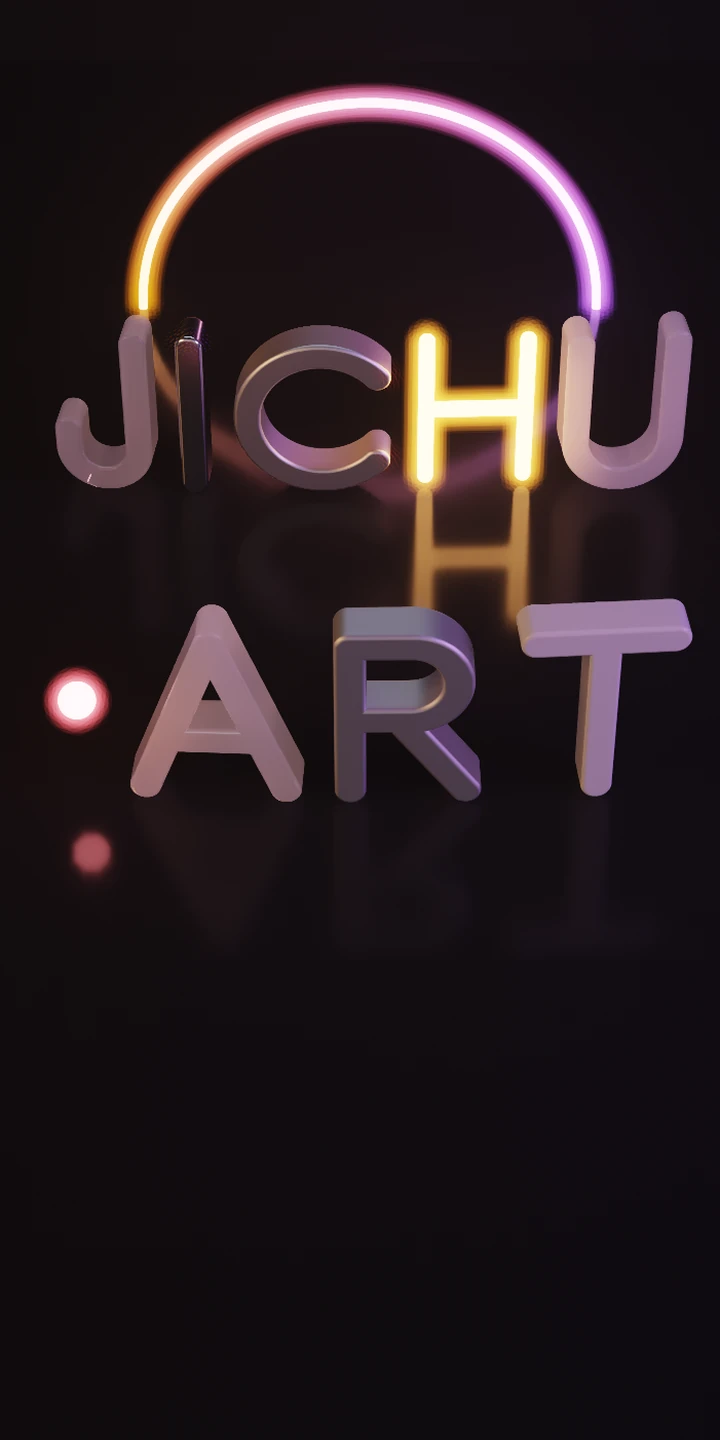
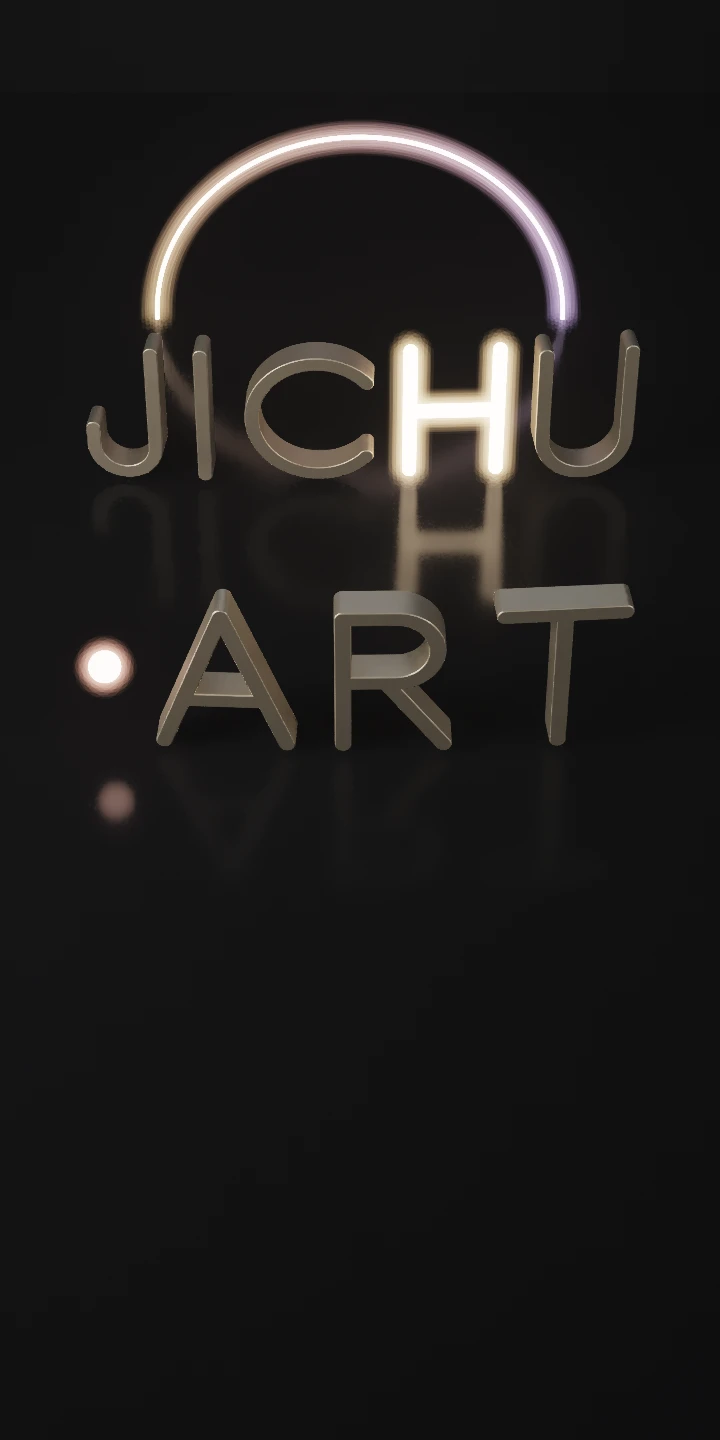
Home: fallback stills and share picture rendered with the champagne-metal scene
The wide and tall stills (shown with reduced motion, without WebGL2 or
on GPUs too slow for the live render) and the home share picture were
still the earlier gel-lit scene. They are re-rendered by the page's own
renderer (96 samples, denoised), the share crop keeps the top of the
arch, and their URLs carry STILL_V so the CDN's 30-day image cache
serves the new files at once. README notes how to render them again.

Claude-Session: https://claude.ai/code/session_015hzHTXBJz3FWnZSmHQoqzp

Changed region(s): [[0.0611, 0.0312, 0.9778, 0.5625], [0.0611, 0.4062, 0.4278, 0.625]]

diff --git a/index.html b/index.html
@@ -11,7 +11,7 @@
 <meta property="og:title" content="Jichu Mao – Graphics Performance Engineer | Jichu · Art">
 <meta property="og:description" content="Portfolio of Jichu Mao, graphics engineer: real-time rendering, GPU path tracing, shaders, graphics tools, games and animation.">
 <meta property="og:url" content="https://jichu.art/">
-<meta property="og:image" content="https://jichu.art/assets/img/home/og.jpg">
+<meta property="og:image" content="https://jichu.art/assets/img/home/og.jpg?v=e1">
 <meta property="og:image:width" content="1200">
 <meta property="og:image:height" content="630">
 <meta name="twitter:card" content="summary_large_image">
@@ -42,10 +42,10 @@
   <figure class="hero-media">
     <canvas class="hero-live" aria-hidden="true"></canvas>
     <picture class="hero-still" hidden>
-      <source media="(max-aspect-ratio: 1/1)" data-srcset="assets/img/home/studio-tall-720.webp 720w" sizes="100vw" width="720" height="1440">
-      <img data-srcset="assets/img/home/studio-1000.webp 1000w, assets/img/home/studio-1600.webp 1600w" sizes="100vw" width="1600" height="900" alt="The letters JICHU · ART in slim brushed champagne metal, standing on a wet black floor in front of a thin arch of light, which the floor reflects into a full ring. The H is neon tubes and the dot a glowing sphere; the arch glows in soft warm and cool tones, which in the live version slowly flow">
+      <source media="(max-aspect-ratio: 1/1)" data-srcset="assets/img/home/studio-tall-720.webp?v=e1 720w" sizes="100vw" width="720" height="1440">
+      <img data-srcset="assets/img/home/studio-1000.webp?v=e1 1000w, assets/img/home/studio-1600.webp?v=e1 1600w" sizes="100vw" width="1600" height="900" alt="The letters JICHU · ART in slim brushed champagne metal, standing on a wet black floor in front of a thin arch of light, which the floor reflects into a full ring. The H is neon tubes and the dot a glowing sphere; the arch glows in soft warm and cool tones, which in the live version slowly flow">
     </picture>
-    <noscript><img class="hero-still" src="assets/img/home/studio-1600.webp" width="1600" height="900" alt="The letters JICHU · ART in slim brushed champagne metal, standing on a wet black floor in front of a thin arch of light, which the floor reflects into a full ring. The H is neon tubes and the dot a glowing sphere; the arch glows in soft warm and cool tones, which in the live version slowly flow"></noscript>
+    <noscript><img class="hero-still" src="assets/img/home/studio-1600.webp?v=e1" width="1600" height="900" alt="The letters JICHU · ART in slim brushed champagne metal, standing on a wet black floor in front of a thin arch of light, which the floor reflects into a full ring. The H is neon tubes and the dot a glowing sphere; the arch glows in soft warm and cool tones, which in the live version slowly flow"></noscript>
     <figcaption><span class="cap-live">Path traced live in your browser<span class="cap-more">: brushed champagne metal, neon and haze, lit by an arch of light whose colours slowly flow. Each light is traced into its own buffer, so their colours flow without tracing again; denoised as it converges</span>. <span class="spp"></span><span class="hint"> Drag to turn it.</span></span><span class="cap-still">Path traced by this page’s own renderer<span class="cap-more">: brushed champagne metal, neon and haze, lit by an arch of light</span>.</span></figcaption>
   </figure>
   <div class="wrap hero-text">

diff --git a/about/index.html b/about/index.html
@@ -11,7 +11,7 @@
 <meta property="og:title" content="About – Jichu · Art">
 <meta property="og:description" content="About Jichu Mao, Graphics Performance Engineer at TikTok: background, work experience, education, skills and hobbies.">
 <meta property="og:url" content="https://jichu.art/about/">
-<meta property="og:image" content="https://jichu.art/assets/img/home/og.jpg">
+<meta property="og:image" content="https://jichu.art/assets/img/home/og.jpg?v=e1">
 <meta property="og:image:width" content="1200">
 <meta property="og:image:height" content="630">
 <meta name="twitter:card" content="summary_large_image">

diff --git a/resume/index.html b/resume/index.html
@@ -11,7 +11,7 @@
 <meta property="og:title" content="Jichu Mao – Résumé">
 <meta property="og:description" content="Résumé of Jichu Mao, graphics engineer: experience, selected projects, education and skills.">
 <meta property="og:url" content="https://jichu.art/resume/">
-<meta property="og:image" content="https://jichu.art/assets/img/home/og.jpg">
+<meta property="og:image" content="https://jichu.art/assets/img/home/og.jpg?v=e1">
 <meta property="og:image:width" content="1200">
 <meta property="og:image:height" content="630">
 <meta name="twitter:card" content="summary_large_image">

diff --git a/tools/build.py b/tools/build.py
@@ -10,6 +10,7 @@ MAN = json.load(open(sys.argv[2], encoding="utf-8"))
 SITE = "https://jichu.art"
 E = html.escape
 ASSET_V = "40"   # bump when site.css or the scripts change, so browsers do not reuse a cached copy
+STILL_V = "e1"    # bump when the home stills or the home share picture are re-rendered (they are cached for 30 days)
 
 # Visitor statistics (GoatCounter: no cookies, so no consent banner). Empty = off.
 # To switch on: create a free account at goatcounter.com, choose a code (the "mysite" of mysite.goatcounter.com),
@@ -976,10 +977,10 @@ def build_home():
   <figure class="hero-media">
     <canvas class="hero-live" aria-hidden="true"></canvas>
     <picture class="hero-still" hidden>
-      <source media="(max-aspect-ratio: 1/1)" data-srcset="assets/img/home/studio-tall-720.webp 720w" sizes="100vw" width="720" height="1440">
-      <img data-srcset="assets/img/home/studio-1000.webp 1000w, assets/img/home/studio-1600.webp 1600w" sizes="100vw" width="1600" height="900" alt="{E(HERO_ALT)}">
+      <source media="(max-aspect-ratio: 1/1)" data-srcset="assets/img/home/studio-tall-720.webp?v={STILL_V} 720w" sizes="100vw" width="720" height="1440">
+      <img data-srcset="assets/img/home/studio-1000.webp?v={STILL_V} 1000w, assets/img/home/studio-1600.webp?v={STILL_V} 1600w" sizes="100vw" width="1600" height="900" alt="{E(HERO_ALT)}">
     </picture>
-    <noscript><img class="hero-still" src="assets/img/home/studio-1600.webp" width="1600" height="900" alt="{E(HERO_ALT)}"></noscript>
+    <noscript><img class="hero-still" src="assets/img/home/studio-1600.webp?v={STILL_V}" width="1600" height="900" alt="{E(HERO_ALT)}"></noscript>
     <figcaption><span class="cap-live">Path traced live in your browser<span class="cap-more">: brushed champagne metal, neon and haze, lit by an arch of light whose colours slowly flow. Each light is traced into its own buffer, so their colours flow without tracing again; denoised as it converges</span>. <span class="spp"></span><span class="hint"> Drag to turn it.</span></span><span class="cap-still">Path traced by this page’s own renderer<span class="cap-more">: brushed champagne metal, neon and haze, lit by an arch of light</span>.</span></figcaption>
   </figure>
   <div class="wrap hero-text">
@@ -1018,7 +1019,7 @@ def build_home():
 </section>"""
     write("index.html", page(root=root, path="", title="Jichu Mao – Graphics Performance Engineer | Jichu · Art",
                              desc="Portfolio of Jichu Mao, graphics engineer: real-time rendering, GPU path tracing, shaders, graphics tools, games and animation.",
-                             body=body, og_image="assets/img/home/og.jpg", current="", scripts=("works.js", "previews.js", "studio.js", "home.js"), person=True, cls="home"))
+                             body=body, og_image=f"assets/img/home/og.jpg?v={STILL_V}", current="", scripts=("works.js", "previews.js", "studio.js", "home.js"), person=True, cls="home"))
 
 def build_projects():
     root = "../../"
@@ -1112,7 +1113,7 @@ def build_about():
 </div>"""
     write("about/index.html", page(root=root, path="about/", title="About – Jichu · Art",
                                    desc="About Jichu Mao, Graphics Performance Engineer at TikTok: background, work experience, education, skills and hobbies.",
-                                   body=body, og_image="assets/img/home/og.jpg", current="about", person=True))
+                                   body=body, og_image=f"assets/img/home/og.jpg?v={STILL_V}", current="about", person=True))
 
 def redirect(rel_dir, target_rel, target_abs_path):
     """Keep old WordPress URLs alive: /index.php/<slug>/ -> new page."""
@@ -1159,7 +1160,7 @@ def build_resume():
 <meta property="og:title" content="Jichu Mao – Résumé">
 <meta property="og:description" content="Résumé of Jichu Mao, graphics engineer: experience, selected projects, education and skills.">
 <meta property="og:url" content="{SITE}/resume/">
-<meta property="og:image" content="{SITE}/assets/img/home/og.jpg">
+<meta property="og:image" content="{SITE}/assets/img/home/og.jpg?v={STILL_V}">
 <meta property="og:image:width" content="1200">
 <meta property="og:image:height" content="630">
 <meta name="twitter:card" content="summary_large_image">

diff --git a/tools/photography.py b/tools/photography.py
@@ -62,8 +62,8 @@ def comma():
 #   rows   the sequence. Each inner list is one row on a wide screen; on a
 #          phone held upright the same order runs top to bottom.
 #   cover  the photograph used for the tile on the index page.
-#   focus  optional. Where to hold the cover when a tile has to crop it
-#          ("More series" at the foot of a series page), as a CSS position.
+#   focus  optional. Where to hold the cover when it has to be cropped (the share image),
+#          as a CSS position. The "More series" covers are shown whole.
 #   link   optional. (text, page on the main site) shown under the note.
 #   title_zh  optional. The series' own title in the Chinese edition, when it is not a translation of `title`
 #          (Jichu's titles for his city sets); otherwise the Chinese edition translates `title` through ZH.

diff --git a/tools/og.py b/tools/og.py
@@ -46,7 +46,7 @@ for proj in sorted(os.listdir(img)):
     cover = os.path.join(img, proj, "cover.webp")
     if os.path.exists(cover):
         card(cover, os.path.join(img, proj, "og.jpg")); n += 1
-card(os.path.join(img, "home", "studio-1600.webp"), os.path.join(img, "home", "og.jpg"), 0.52, 0.5); n += 1
+card(os.path.join(img, "home", "studio-1600.webp"), os.path.join(img, "home", "og.jpg"), 0.52, 0.2); n += 1
 og = os.path.join(ROOT, "photography", "og")
 card(photo(G.SLIDES[0][0]), os.path.join(og, "index.jpg")); card(photo(G.SLIDES[0][0]), os.path.join(og, "all.jpg")); n += 2
 for s in G.SERIES:

diff --git a/README.md b/README.md
@@ -90,7 +90,7 @@ The colours flow without tracing again. Light transport is linear in what the li
 
 Each frame is denoised before it is shown: an edge-aware à-trous wavelet filter (as in SVGF), four passes over the mixed picture, guided by what the camera ray hit first (normal and distance) and by how noisy each pixel's average still is (that noise averaged over its 3 × 3 neighbours, so a pixel whose few samples all missed a light does not stay as a dark speck). It smooths hard at the start and lets go by itself as samples accumulate, so it stays on to the end. Then a thin lens, ACES tone mapping and a glow around the brightest light. The letters' shapes are the `strokes` function in the shader; materials, lights and the haze density are the constants at its top; where each letter stands is `layout()` (one gently curved row on wide screens, JICHU behind ·ART on tall ones) and the arch is `arch()`. The picture starts as noise and converges, stopping at 512 samples per pixel. The far wall ends a path after the light it receives directly (it is nearly black, so what it would bounce on is invisible), which keeps the upper half of the picture cheap. Dragging sideways turns the camera. The resolution is set so a frame costs the GPU about 10 ms (from timer queries where the browser has them), up to the screen's own pixels (at most about 4.5 million); once it is at full resolution, a GPU with time to spare traces several samples each frame (up to eight, still within ~10 ms), so on a fast desktop GPU it converges in a few seconds. A sample that comes out NaN or infinite is dropped. It stops while off screen or in a hidden tab. It needs five render targets; with fewer it shows the still picture. On phones and tablets (a coarse pointer) the pixel count is capped at about 1.2 million, to keep the buffers (about 170 bytes a pixel) near 200 MB. Without timer queries (Safari, most phones) the GPU is first timed at a small size (two frames), so a slow GPU stalls the page only briefly; a GPU that would need more than ~45 ms a frame even at the smallest size (150,000 pixels) gets the still picture instead, and so does one that falls that far behind later. Once converged, the colours are remixed about 20 times a second, less on slower GPUs (kept to ~5% of the frame time). On tall screens the camera keeps ~10% margins at the sides and room above for the arch; on screens up to 1,060 px wide the name and the caption stack on the floor, and below 600 px the caption is one short line.
 
-Where it cannot run (no WebGL2 or float render targets, "reduce motion", no JavaScript) the page shows `assets/img/home/studio-1600.webp` / `studio-1000.webp` (wide) and `studio-tall-720.webp` (tall) instead. They are this same renderer's output at the default colours (`time` 1.3): in a browser, `Studio.make(canvas, {preserve: true})`, `size(w, h)` at the file's pixel size, `step()` until 1,024 samples (the denoiser on, as on the page), then the canvas saved as WebP. Render them again after changing the scene. The home page's sharing picture is cut from the wide one.
+Where it cannot run (no WebGL2 or float render targets, "reduce motion", no JavaScript) the page shows `assets/img/home/studio-1600.webp` / `studio-1000.webp` (wide) and `studio-tall-720.webp` (tall) instead. They are this same renderer's output at the default colours (`time` 1.3): in a browser, `Studio.make(canvas, {preserve: true})`, `size(w, h)` at the file's pixel size, `step()` until about 100 samples (the denoiser on, as on the page, cleans the rest), then the canvas saved as WebP; a headless Chromium with SwiftShader does it without a GPU, slowly (about 20 minutes for the wide one on two cores). Render them again after changing the scene, run `tools/og.py` (the home page's sharing picture is cut from the wide one), and raise `STILL_V` in `tools/build.py`: these files keep their names and the CDN caches images for 30 days, so the version in their URLs is what makes visitors get the new ones.
 
 When the page scrolls, the opening falls behind it (darker, slower, the name fading), and each work cover starts as a noisy, unconverged render that settles into the picture as it comes into view (`assets/img/home/speckle.png`); both are in `assets/js/home.js`. Visitors who ask for reduced motion get the still picture and no scroll effects. The words on the opening are the name, one line under it (`hero-lead`) and the caption, all in `build_home()`.
 
@@ -169,7 +169,7 @@ A project made of photographs that are already in the photography section (Virtu
 
 **Everything editable is in `tools/photography.py`:**
 
-- `SERIES`: one entry per series. `rows` is the sequence, for example `[[58], [57, 54], [61]]` is one frame, then a pair, then one frame. `cover` is the photograph on the index tile. `focus` (optional) says which part of the cover to keep where it has to be cropped: the "More series" tiles at the foot of a series and the share image.
+- `SERIES`: one entry per series. `rows` is the sequence, for example `[[58], [57, 54], [61]]` is one frame, then a pair, then one frame. `cover` is the photograph on the index tile. `focus` (optional) says which part of the cover to keep where it has to be cropped (the share image); the "More series" covers at the foot of a series page are shown whole, at their own aspect ratio, since many photographs are composed as squares. On an upright phone, All and the subject pages are a three-column grid of square crops to browse (the viewer shows each photograph whole), and their `sizes` attributes say so, so phones fetch the small files there.
 - `CHAPTERS`: the index page. Each chapter has a title, one sentence, the series in it and how many covers sit in a row on a wide screen (`per_row`: 2, 3 or 4; a row of four becomes two rows of two below 1000 px). Covers are never cropped there: the covers of a row share one height and divide the width in proportion, as on a series page, so a portrait or square cover is shown as it was shot. Every series belongs to exactly one chapter, and the order here is the order of the whole section.
 - `SLIDES`: the opening slideshow. Each entry is a photograph for wide screens, one for upright phones, and the series it links to. They are the strongest pictures of the whole section, judged at the slideshow's own full-screen crop, one per series.
 - `SUBJECTS`: the subject pages. A photograph can sit under several subjects and must sit under at least one; the rows on these pages are packed automatically.
